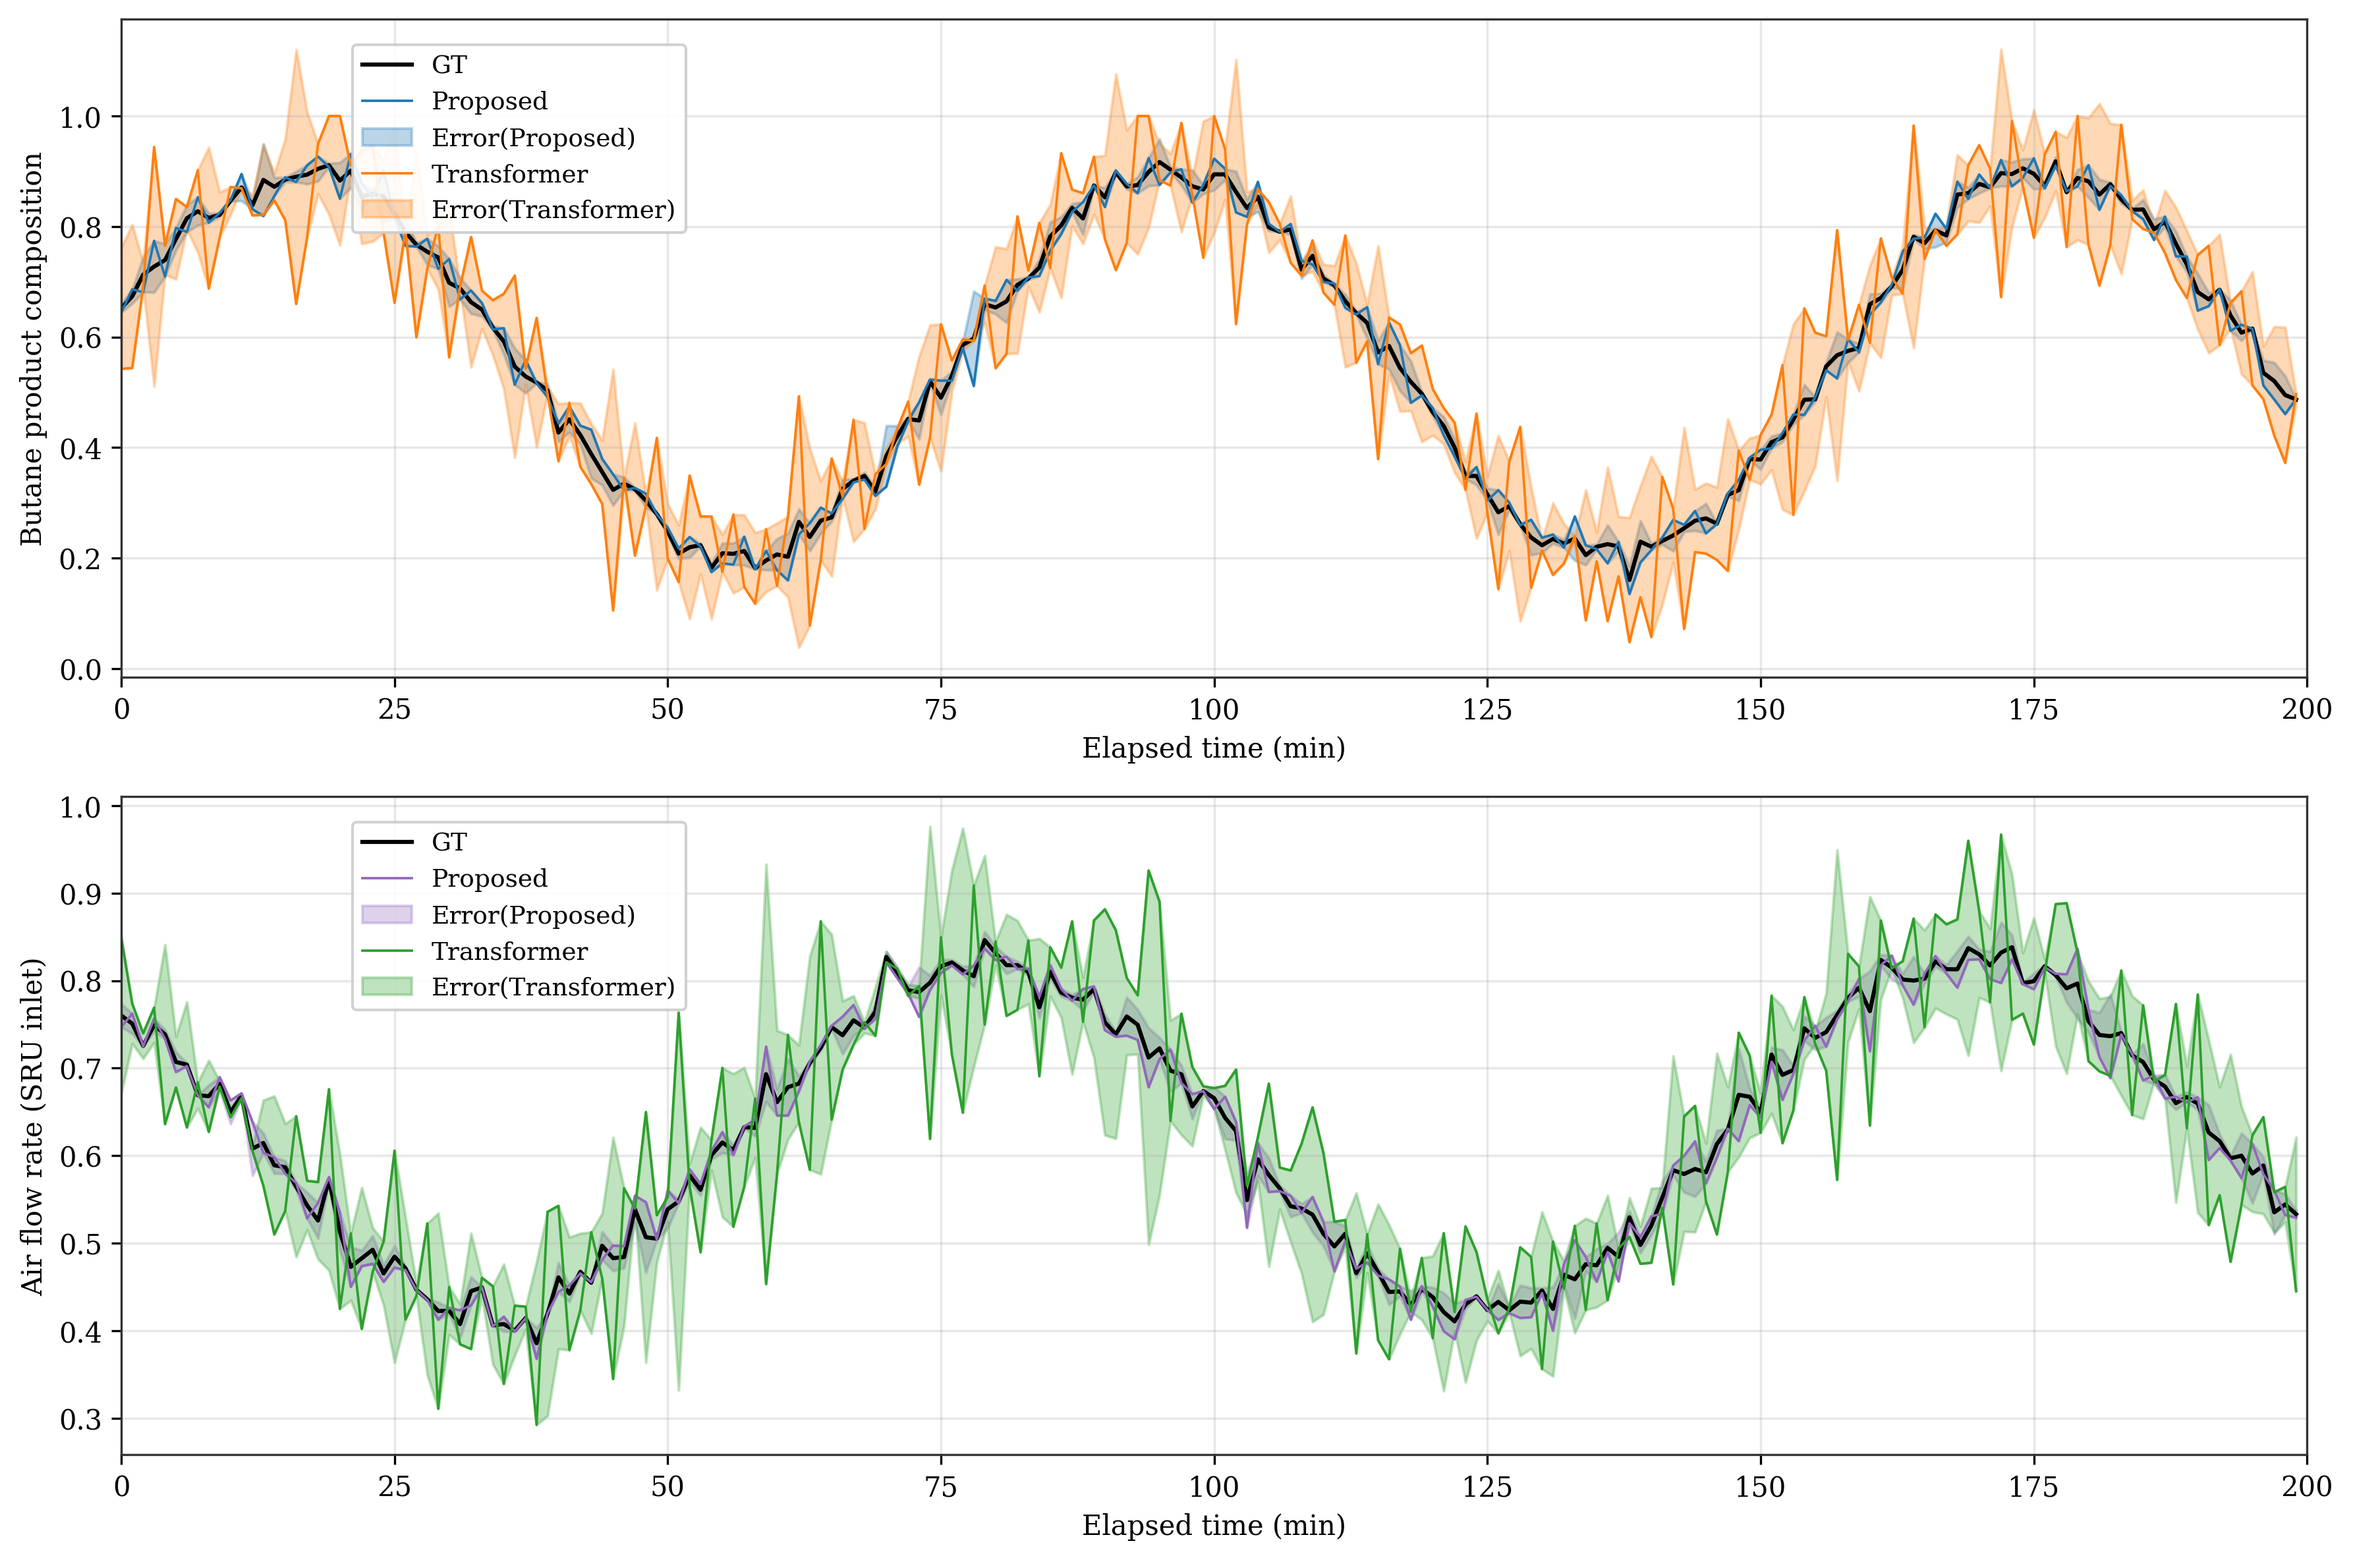
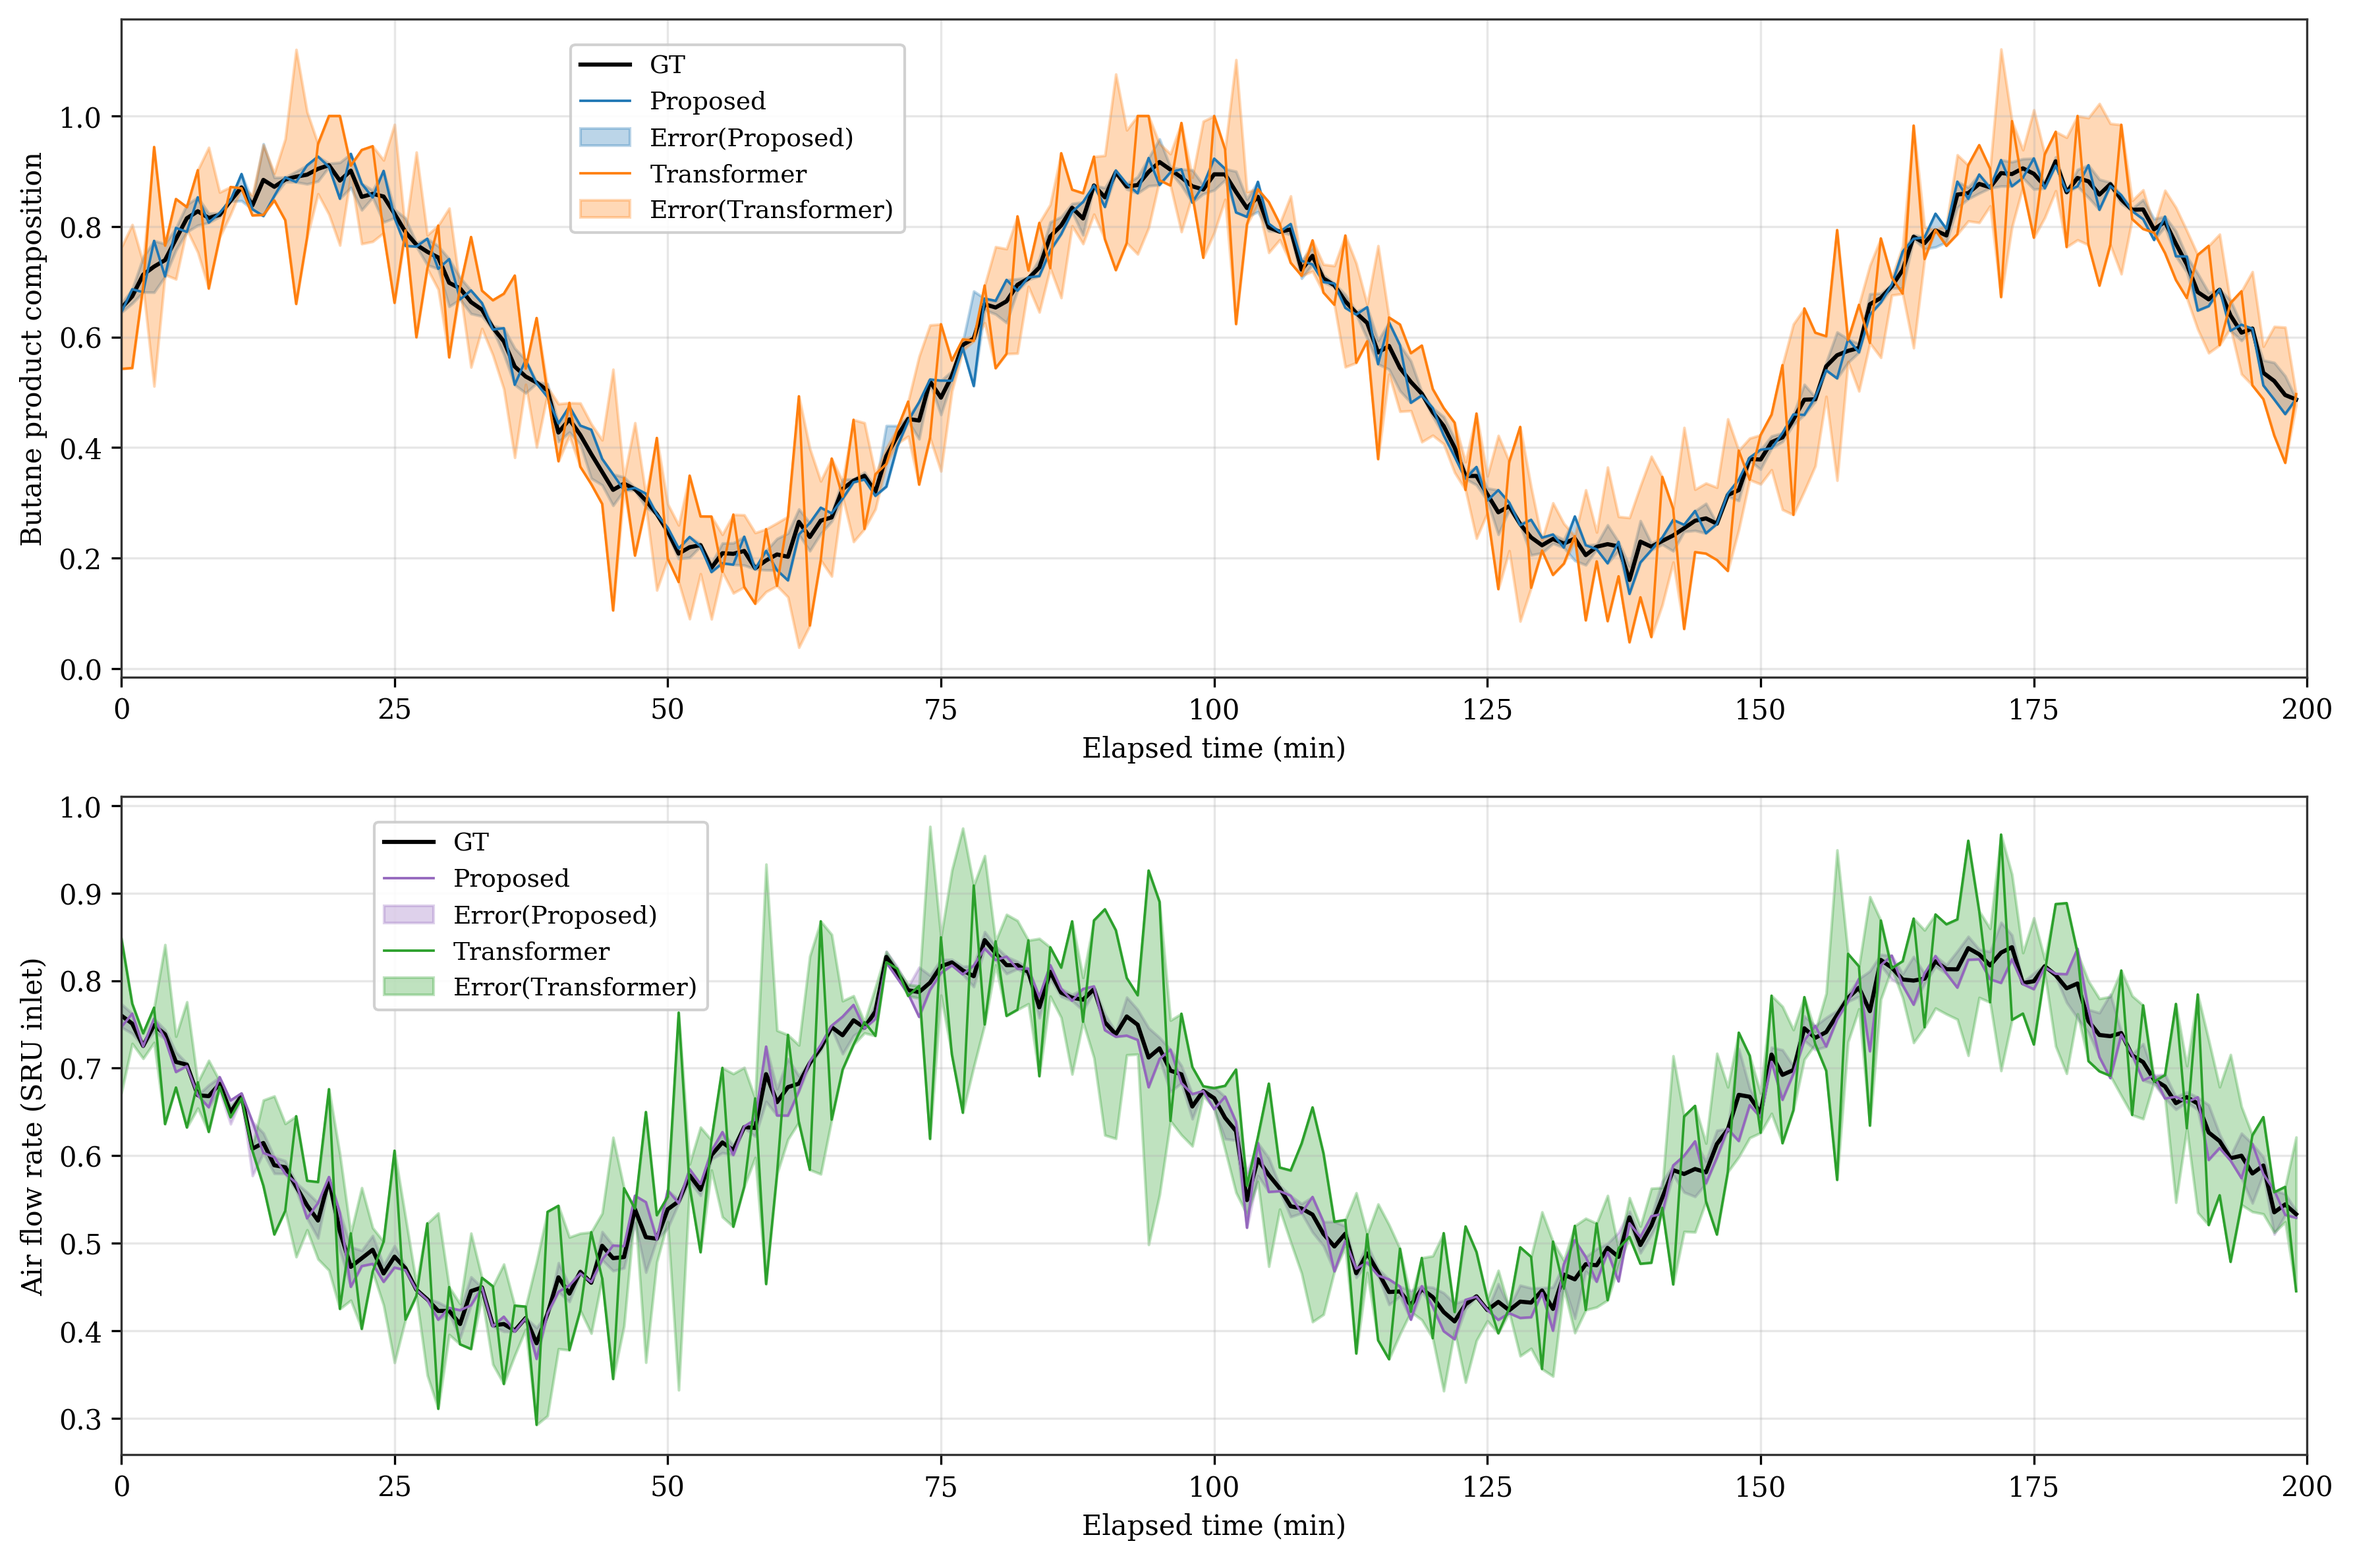
fig6: reposition legends to match annotated black box positions
Top panel:   bbox_to_anchor=(0.20, 0.98)
Bottom panel: bbox_to_anchor=(0.11, 0.98)

https://claude.ai/code/session_01JEBjnMEN3JtTnPEsjDn4Ny

Changed region(s): [[0.1243, 0.0625, 0.373, 0.1562], [0.1554, 0.5312, 0.3108, 0.6562]]

diff --git a/visualization/draw_fig6_comparison.py b/visualization/draw_fig6_comparison.py
@@ -84,13 +84,13 @@ plot_panel(ax1, deb_gt, deb_ours, deb_trans,
            'Butane product composition',
            '#1f77b4',   # blue  (matplotlib C0)
            '#ff7f0e',   # orange (matplotlib C1)
-           legend_anchor=(0.10, 0.98))
+           legend_anchor=(0.20, 0.98))
 
 plot_panel(ax2, sru_gt, sru_ours, sru_trans,
            'Air flow rate (SRU inlet)',
            '#9467bd',   # purple (matplotlib C4)
            '#2ca02c',   # green  (matplotlib C2)
-           legend_anchor=(0.10, 0.98))
+           legend_anchor=(0.11, 0.98))
 
 plt.tight_layout()
 
